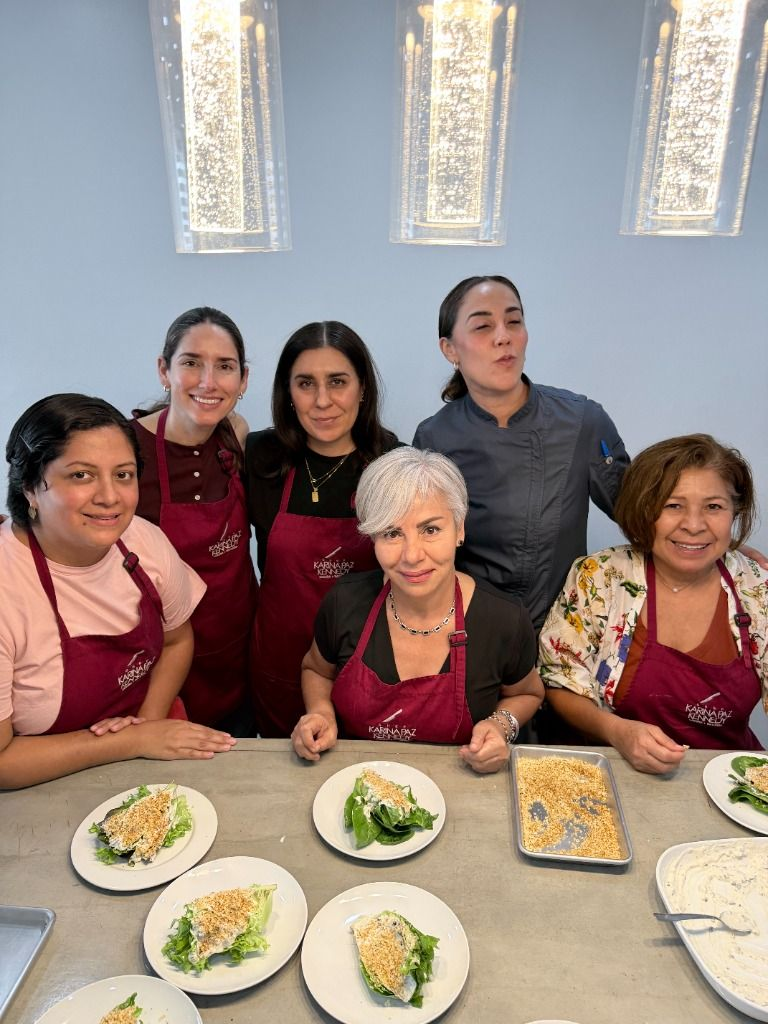
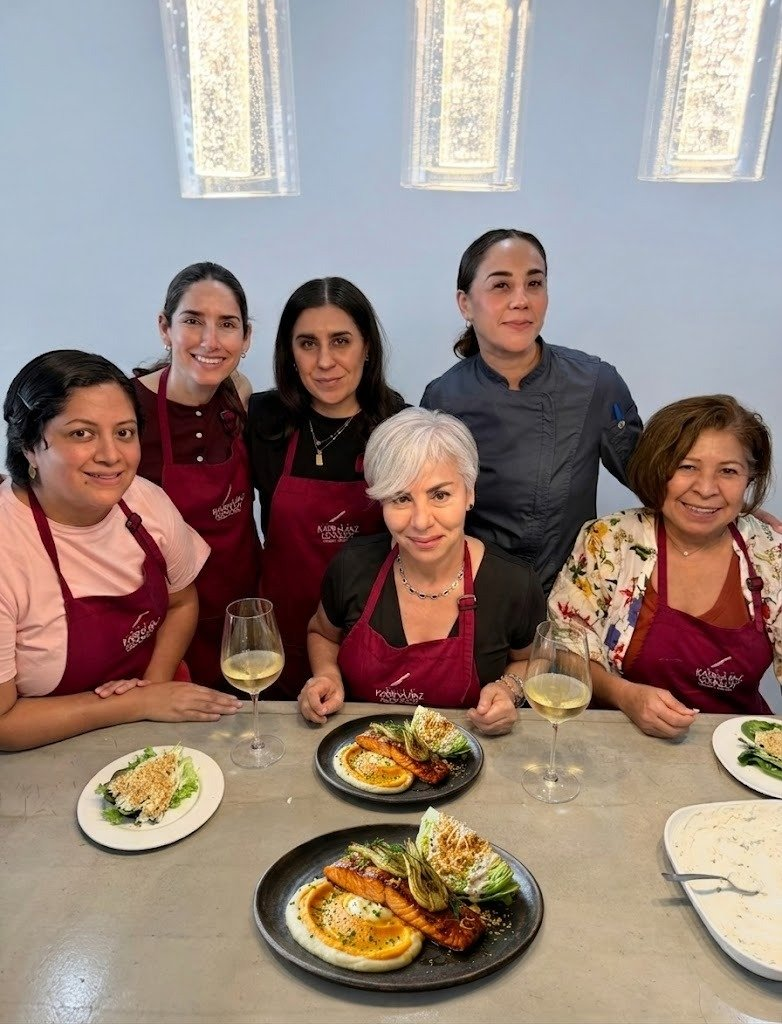
Swap duplicate moments gallery images with optimized kitchen prep and salmon group photos

diff --git a/experiences/cocina-nutricion-playas-tijuana-18-junio/index.html b/experiences/cocina-nutricion-playas-tijuana-18-junio/index.html
@@ -342,14 +342,14 @@
         </div>
       </div>
       <div style="border-radius: 16px; overflow: hidden; box-shadow: 0 10px 30px rgba(0,0,0,0.08); transition: transform 0.3s ease; background: #fff;" onmouseover="this.style.transform='scale(1.02)'" onmouseout="this.style.transform='scale(1)'">
-        <img src="../../assets/events/18-junio/group_2.jpg" alt="Grupo del taller con ensaladas preparadas" style="width: 100%; height: 350px; object-fit: cover; display: block;">
+        <img src="../../assets/events/18-junio/group_2.jpg?v=2" alt="Grupo del taller con ensaladas preparadas" style="width: 100%; height: 350px; object-fit: cover; display: block;">
         <div style="padding: 20px; text-align: left;">
           <h4 style="font-family:'Playfair Display',serif; margin: 0 0 6px; font-size: 1.15rem; color: var(--olive); font-weight: 700;">De la Barra al Plato</h4>
           <p style="margin: 0; font-size: 0.9rem; color: #666; line-height: 1.5;">Montaje paso a paso y degustación guiada por Chef Karina Paz Kennedy en nuestra barra interactiva.</p>
         </div>
       </div>
       <div style="border-radius: 16px; overflow: hidden; box-shadow: 0 10px 30px rgba(0,0,0,0.08); transition: transform 0.3s ease; background: #fff;" onmouseover="this.style.transform='scale(1.02)'" onmouseout="this.style.transform='scale(1)'">
-        <img src="../../assets/events/18-junio/group_playful.jpg" alt="Chef Karina Paz y grupo sonriendo" style="width: 100%; height: 350px; object-fit: cover; display: block;">
+        <img src="../../assets/events/18-junio/group_playful.jpg?v=2" alt="Chef Karina Paz y grupo sonriendo" style="width: 100%; height: 350px; object-fit: cover; display: block;">
         <div style="padding: 20px; text-align: left;">
           <h4 style="font-family:'Playfair Display',serif; margin: 0 0 6px; font-size: 1.15rem; color: var(--olive); font-weight: 700;">Experiencia Única</h4>
           <p style="margin: 0; font-size: 0.9rem; color: #666; line-height: 1.5;">Momentos divertidos y dinámicos compartidos en un grupo reducido diseñado para la máxima conexión.</p>
